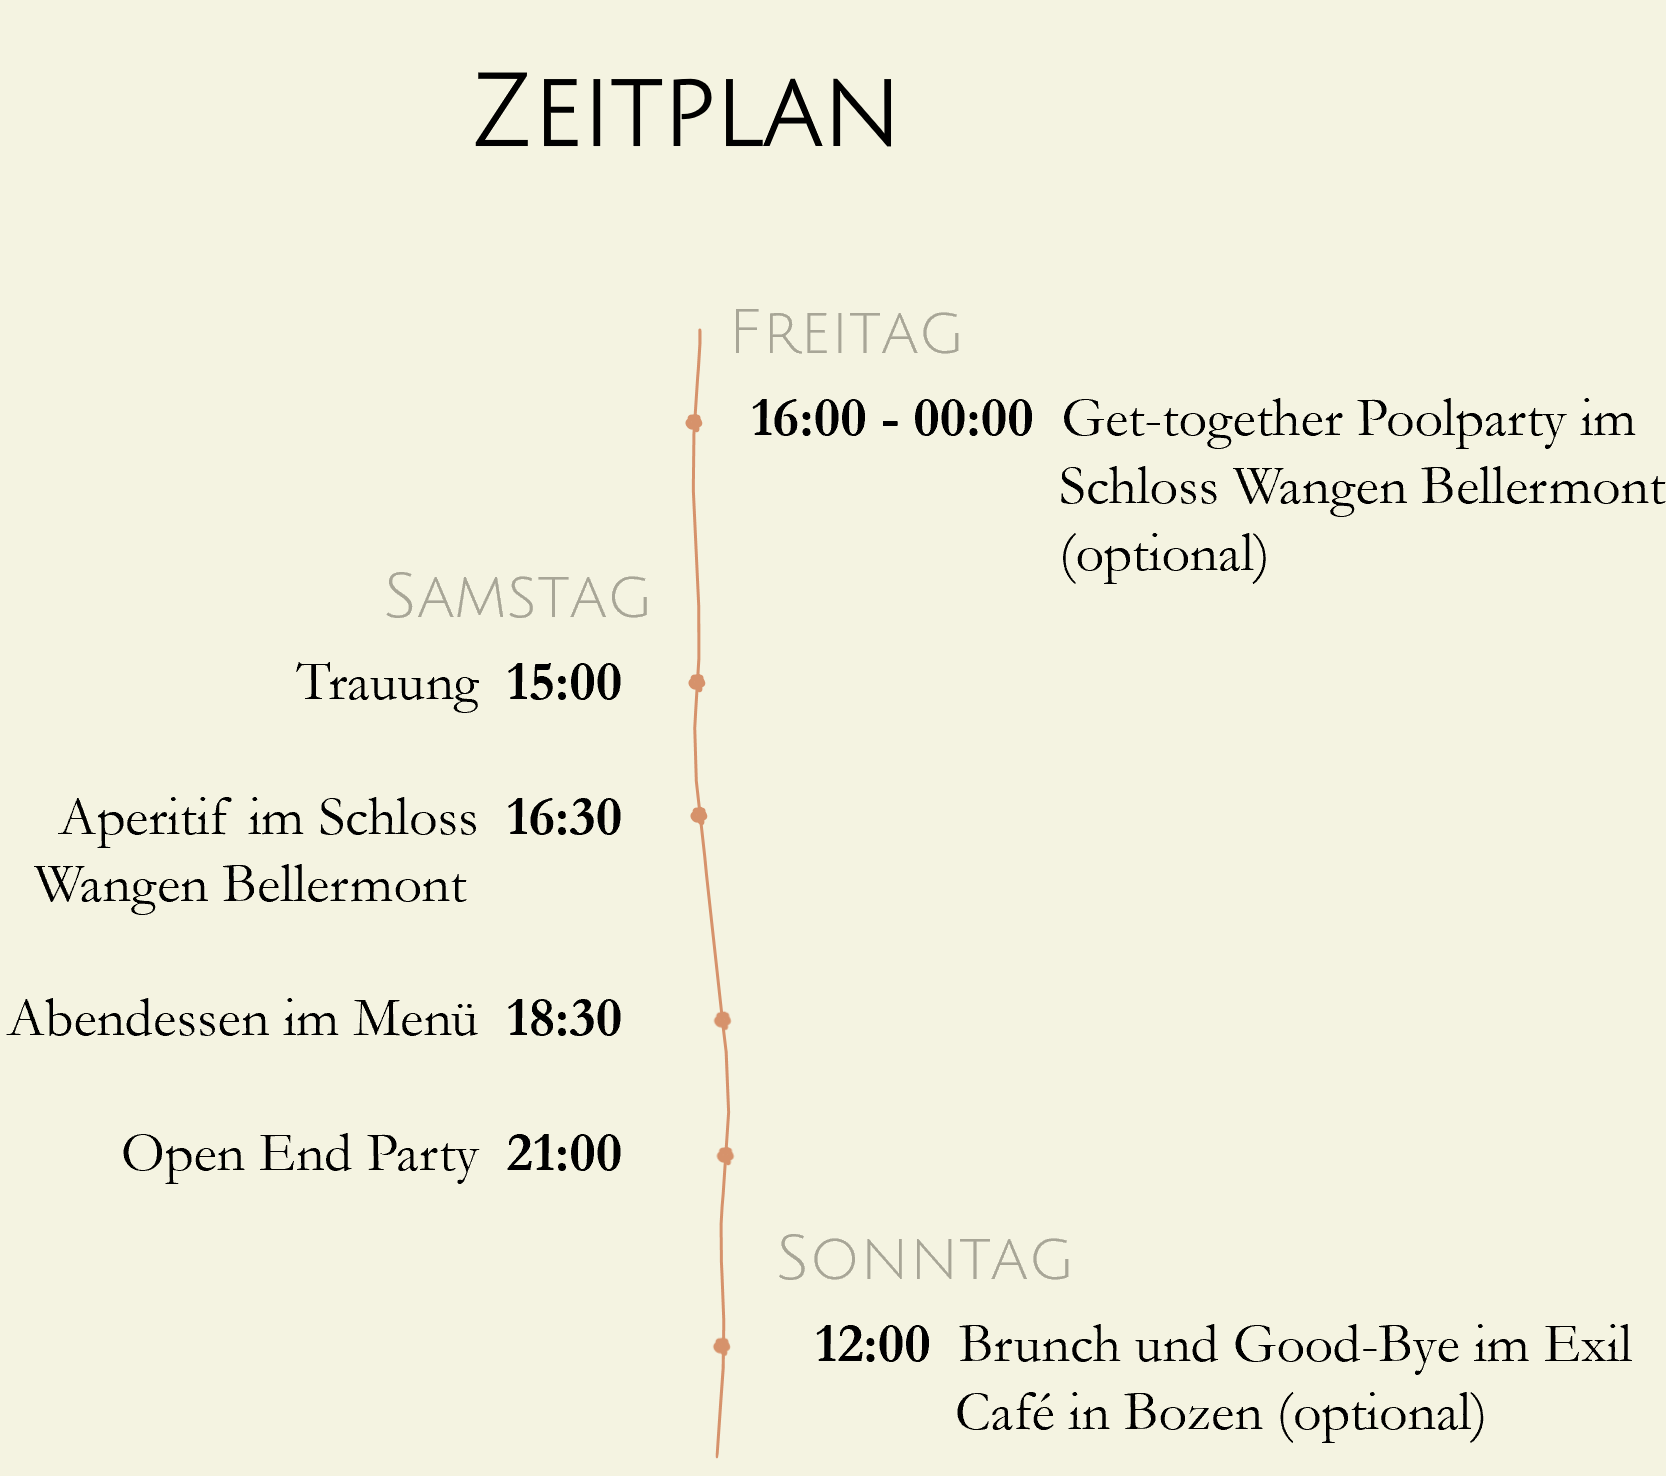
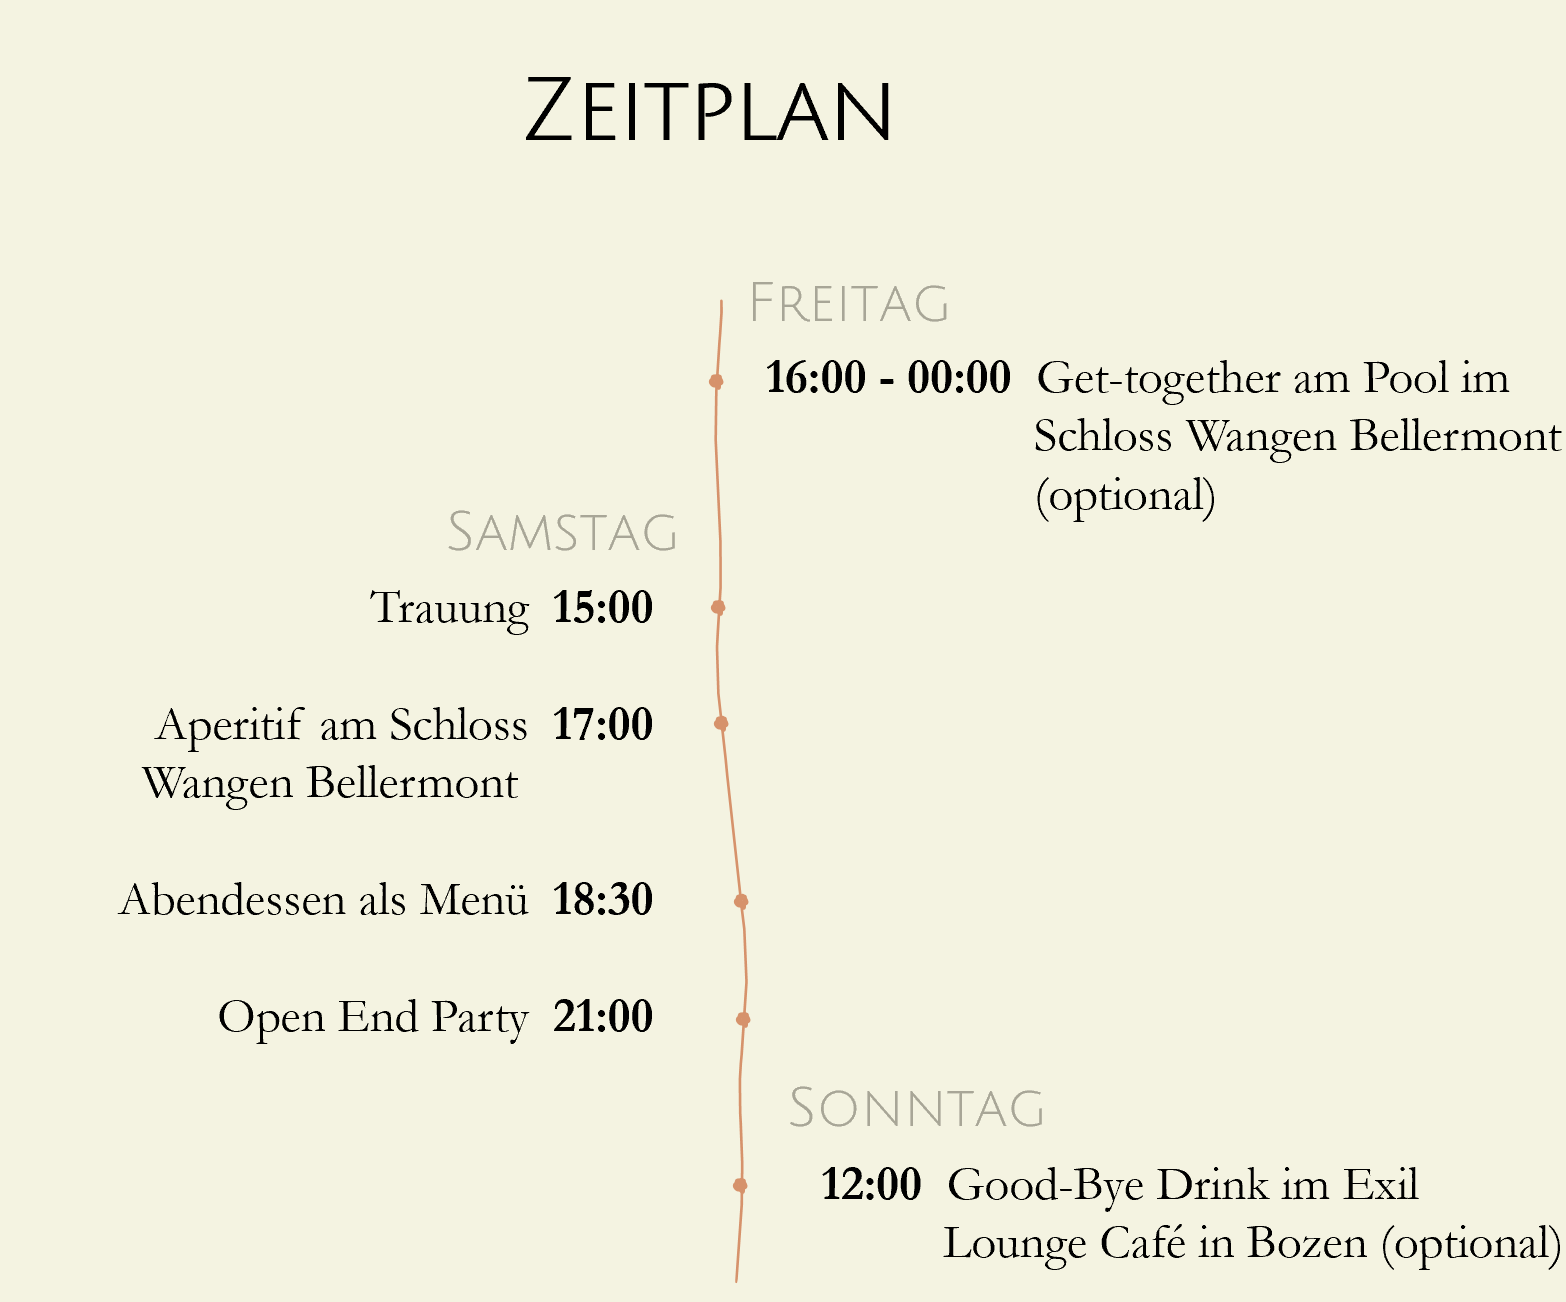
large update

diff --git a/julesundkati/liebe.html b/julesundkati/liebe.html
@@ -6,6 +6,7 @@
     <title>Jules & Kati</title>
     <!-- Bootstrap CSS -->
     <link href="https://cdn.jsdelivr.net/npm/bootstrap@5.3.0-alpha1/dist/css/bootstrap.min.css" rel="stylesheet">
+    <link href="https://fonts.googleapis.com/css2?family=Garamond&family=Julius+Sans+One&display=swap" rel="stylesheet">
 
     <!-- External Stylesheet -->
     <link rel="stylesheet" href="styles.css">
@@ -15,23 +16,17 @@
     <!-- Sticky Navbar -->
     <nav class="navbar navbar-expand-lg navbar-dark bg-dark fixed-top">
         <div class="container">
-            <a class="navbar-brand" href="#">Jules & Kati</a>
+            <a class="navbar-brand" href="#">J ♡ K</a>
             <button class="navbar-toggler" type="button" data-bs-toggle="collapse" data-bs-target="#navbarNav" aria-controls="navbarNav" aria-expanded="false" aria-label="Toggle navigation">
                 <span class="navbar-toggler-icon"></span>
             </button>
             <div class="collapse navbar-collapse" id="navbarNav">
                 <ul class="navbar-nav ms-auto">
                     <li class="nav-item">
-                        <a class="nav-link active" href="#">Home</a>
+                        <a class="nav-link" href="#Horche">Hochzeit & Horche</a>
                     </li>
                     <li class="nav-item">
-                        <a class="nav-link" href="#zeitplan">Zeitplan</a>
-                    </li>
-                    <li class="nav-item">
-                        <a class="nav-link" href="#details">Details</a>
-                    </li>
-                    <li class="nav-item">
-                        <a class="nav-link" href="#rsvp">RSVP</a>
+                        <a class="nav-link" href="#Bozen">Segen & Dolce Vita</a>
                     </li>
                 </ul>
             </div>
@@ -40,29 +35,108 @@
 
     <!-- Hero Section (with Image) -->
     <section id="hero">
-            <!-- Left side with image -->
-            <div class="col-5 hero-img-container">
-                <img src="./img/hero.jpg" alt="Wedding Hero Image">
+    <!-- Left side with image -->
+    <div class="row">
+        <div class="col-md-5 col-lg-5 col-sm-12 hero-img-container">
+            <img src="./img/hero.jpg" alt="Wedding Hero Image">
+        </div>
+
+        <!-- Right side with text (merged into one column) -->
+        <div class="col-md-7 col-lg-7 col-sm-12 text-container-hero d-flex flex-column justify-content-center">
+            <h1 class="hero-text">Wir Heiraten <br> <br> <br> </h1>
+
+            <h6>
+                Und freuen uns riesig, dass ihr uns in dieser spannenden Zeit begleitet. Ohne euch wäre es nur halb so schön! <br>
+                Alles, was ihr noch wissen müsst, findet ihr auf dieser Seite. <br><br>
+            </h6>
+
+            <div class="d-flex justify-content-around mt-3">
+                <button class="btn w-45" onclick="location.href='#Horche';">Heirat & Horche</button>
+                <button class="btn w-45" onclick="location.href='#Bozen';">Segen & Dolce Vita</button>
             </div>
-        
-            <!-- Right side with text -->
-            <row>
-                <div class="col-7 text-container-hero">
-                    <h1 class="hero-text">Wir Heiraten</h1>
+        </div>
+    </div>
+    </section>
+    
+
+    <!-- STANDESAMT -->
+
+    <section id="Horche" style="padding-top: 200px;">
+        <div class="container">
+            <div class="row">
+                <div class="col-3">
                 </div>
-            </row>
-            <row>
-                <div class="col-10 ">
-                    <h6>
-                        und freuen uns riesig, dass ihr uns in dieser spannenden Zeit begleitet. Ohne euch wäre es nur halb so schön! <br>
-                        Alles, was ihr noch wissen müsst, findet ihr auf dieser Seite.
-                    </h6>
+                <div class="col-6 text-center">
+                    <img src="./img/heirat_hoffest_schriftzug.png" alt="Schritzug Horche" class="img-fluid lettering">
                 </div>
-            </row>
+            </div>
+        </div>
     </section>
 
     <!-- Locations Section -->
     <section id="locations" class="container-custom">
+        <div class="container">
+            <!-- Erste Row für Text und Überschriften -->
+            <div class="row">
+                <div class="col-lg-6 text-center">
+                    <h2>Trauung</h2>
+                    <p>Unsere standesamtliche Trauung wird in der <a href="https://maps.app.goo.gl/dGdYwbcTcninzPhy5"> alten Kirche</a> in Niederweimar stattfinden.</p>
+                </div>
+                <div class="col-lg-6 text-center">
+                    <h2>Hoffest</h2>
+                    <p> - Horche, Hoffest, Horchstr. <a href="https://maps.app.goo.gl/yrzPTJDVzWv9dRrv5"> Horche </a> in Herzhausen.</p>
+                </div>
+            </div>
+            <!-- Neue Row für die Bilder -->
+            <div class="row">
+                <div class="col-lg-6 text-center">
+                    <img src="./img/alte_kirche.jpg" class="locations-img" alt="Alte Kirche">
+                </div>
+                <div class="col-lg-6 text-center">
+                    <img src="./img/Horche.jpg" class="locations-img" alt="Hoche">
+                </div>
+            </div>
+        </div>
+    </section>
+
+    <!-- Zeitplan Section -->
+    <section id="zeitplan" class="container-custom">
+        <div class="container col-4">
+            <img src="./img/zeitplan_horche.png" class="img-fluid" alt="Zeitplan Horche">
+        </div>
+    </section>
+    
+
+    <!-- Übernachten -->
+    <section id="details" class="container-custom">
+        <div class="container">
+            <div class="row justify-content-center">
+                <h2>Übernachten</h2>
+                <p class="p col-lg-8 text-center">
+                    Falls ihr übernachten wollt gibt es folgende Optionen
+                </p>
+            </div>
+        </div>
+    </section>
+    
+    <hr class="hr_line">
+
+    <!-- KIRCHLICH -->
+
+    <section id="Bozen" class="pt-5"> <!-- top padding 5 or 3-->
+        <div class="container">
+            <div class="row">
+                <div class="col-3">
+                </div>
+                <div class="col-6 text-center lettering">
+                    <img src="./img/segen_dolcevita_schriftzug.png" alt="Schritzug Bozen" class="img-fluid lettering">
+                </div>
+            </div>
+        </div>
+    </section>
+
+    <!-- Locations Section -->
+    <section id="locations_bozen" class="container-custom">
         <div class="container">
             <!-- Erste Row für Text und Überschriften -->
             <div class="row">
@@ -88,7 +162,7 @@
     </section>
 
     <!-- Zeitplan Section -->
-    <section id="zeitplan" class="container-custom">
+    <section id="zeitplan_bozen" class="container-custom">
         <div class="container col-4">
             <img src="./img/zeitplan_dolcevita.png" class="img-fluid" alt="Zeitplan Dolve Vita">
         </div>
@@ -96,7 +170,7 @@
     
 
     <!-- Übernachten -->
-    <section id="details" class="container-custom">
+    <section id="details_bozen" class="container-custom">
         <div class="container">
             <div class="row justify-content-center">
                 <h2>Übernachten</h2>
@@ -149,7 +223,8 @@
             </div>
         </div>
     </section>
-    
+
+
     <!-- Bilder :) -->
     <section id="mosaic">
         <div class="container text-center">

diff --git a/julesundkati/styles.css b/julesundkati/styles.css
@@ -49,7 +49,9 @@ h6 {
     font-family: 'Garamond', serif;
     font-size: 1.1rem;
     color: #A8A697;
-    margin-bottom: 20px; /* Adds some space at the bottom for aesthetics */}
+    margin-bottom: 20px;
+    text-align: center; /* Aligns all h6 text to the right */
+    }
 
 /* Normal Text */
 p {
@@ -82,7 +84,7 @@ button, .btn {
 }
 
 button:hover, .btn:hover {
-    background-color: #D6926B;
+    background-color: #B37558;
 }
 
 /* globale Link Farben*/
@@ -122,7 +124,7 @@ a:hover {
     background-color: #F4F3E1; /* Background color to match container */
     color: black;
     padding: 20px;
-    padding-bottom: 500px;}
+    padding-bottom: 0px;}
 
 /* Hero Text Styling */
 .hero-text {
@@ -141,6 +143,9 @@ a:hover {
     }
 }
 
+.lettering {
+    padding: 30px;
+}
 
 .locations-img {
     width: 100%; /* Passt die Bilder an die Breite des Containers an */
